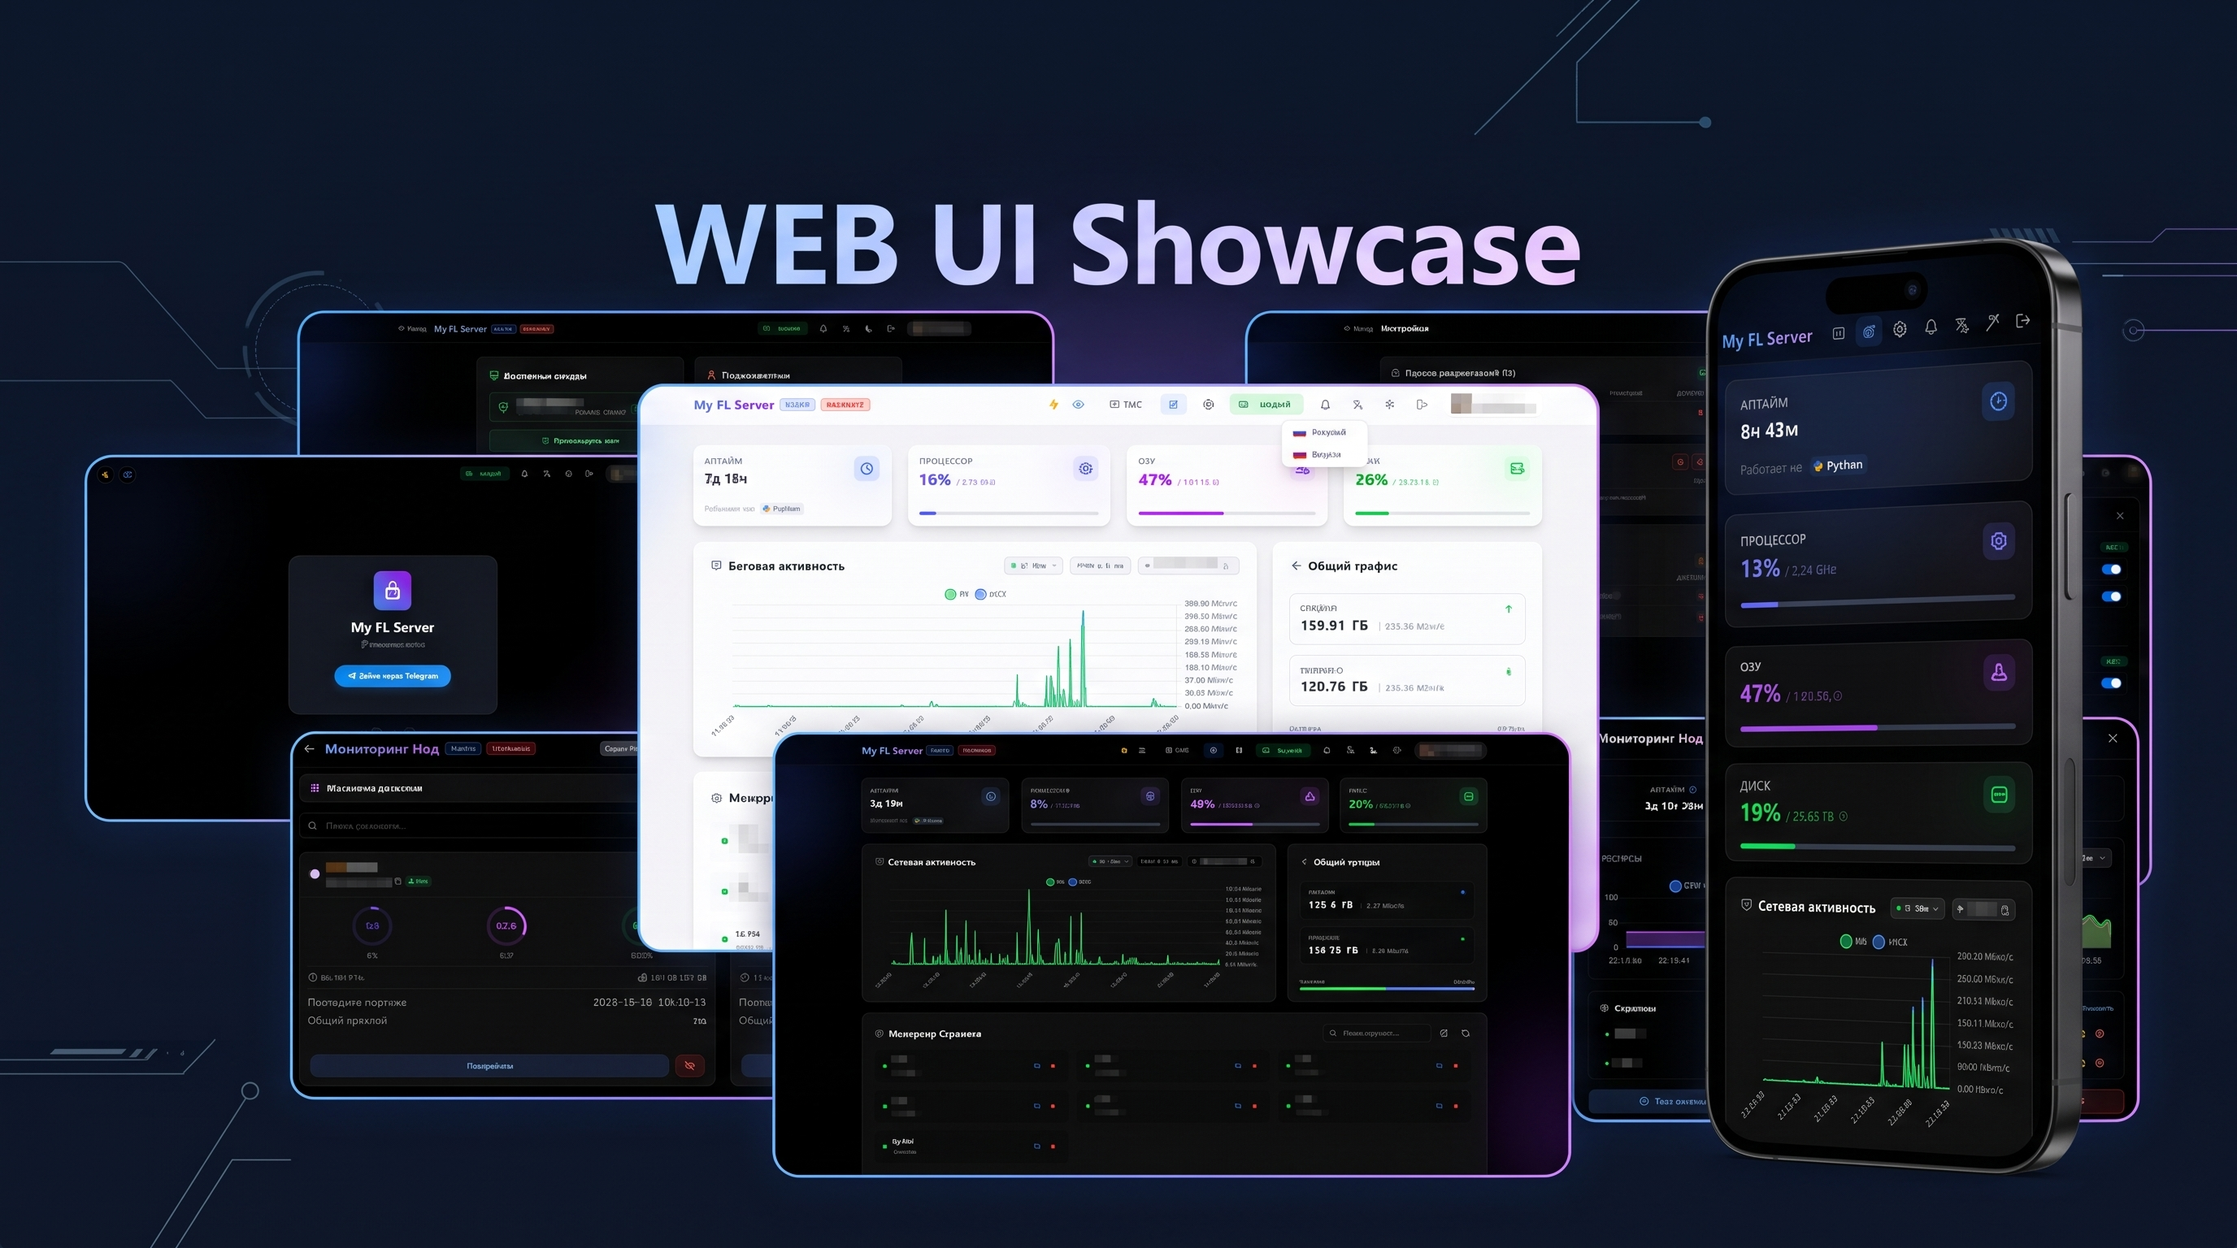
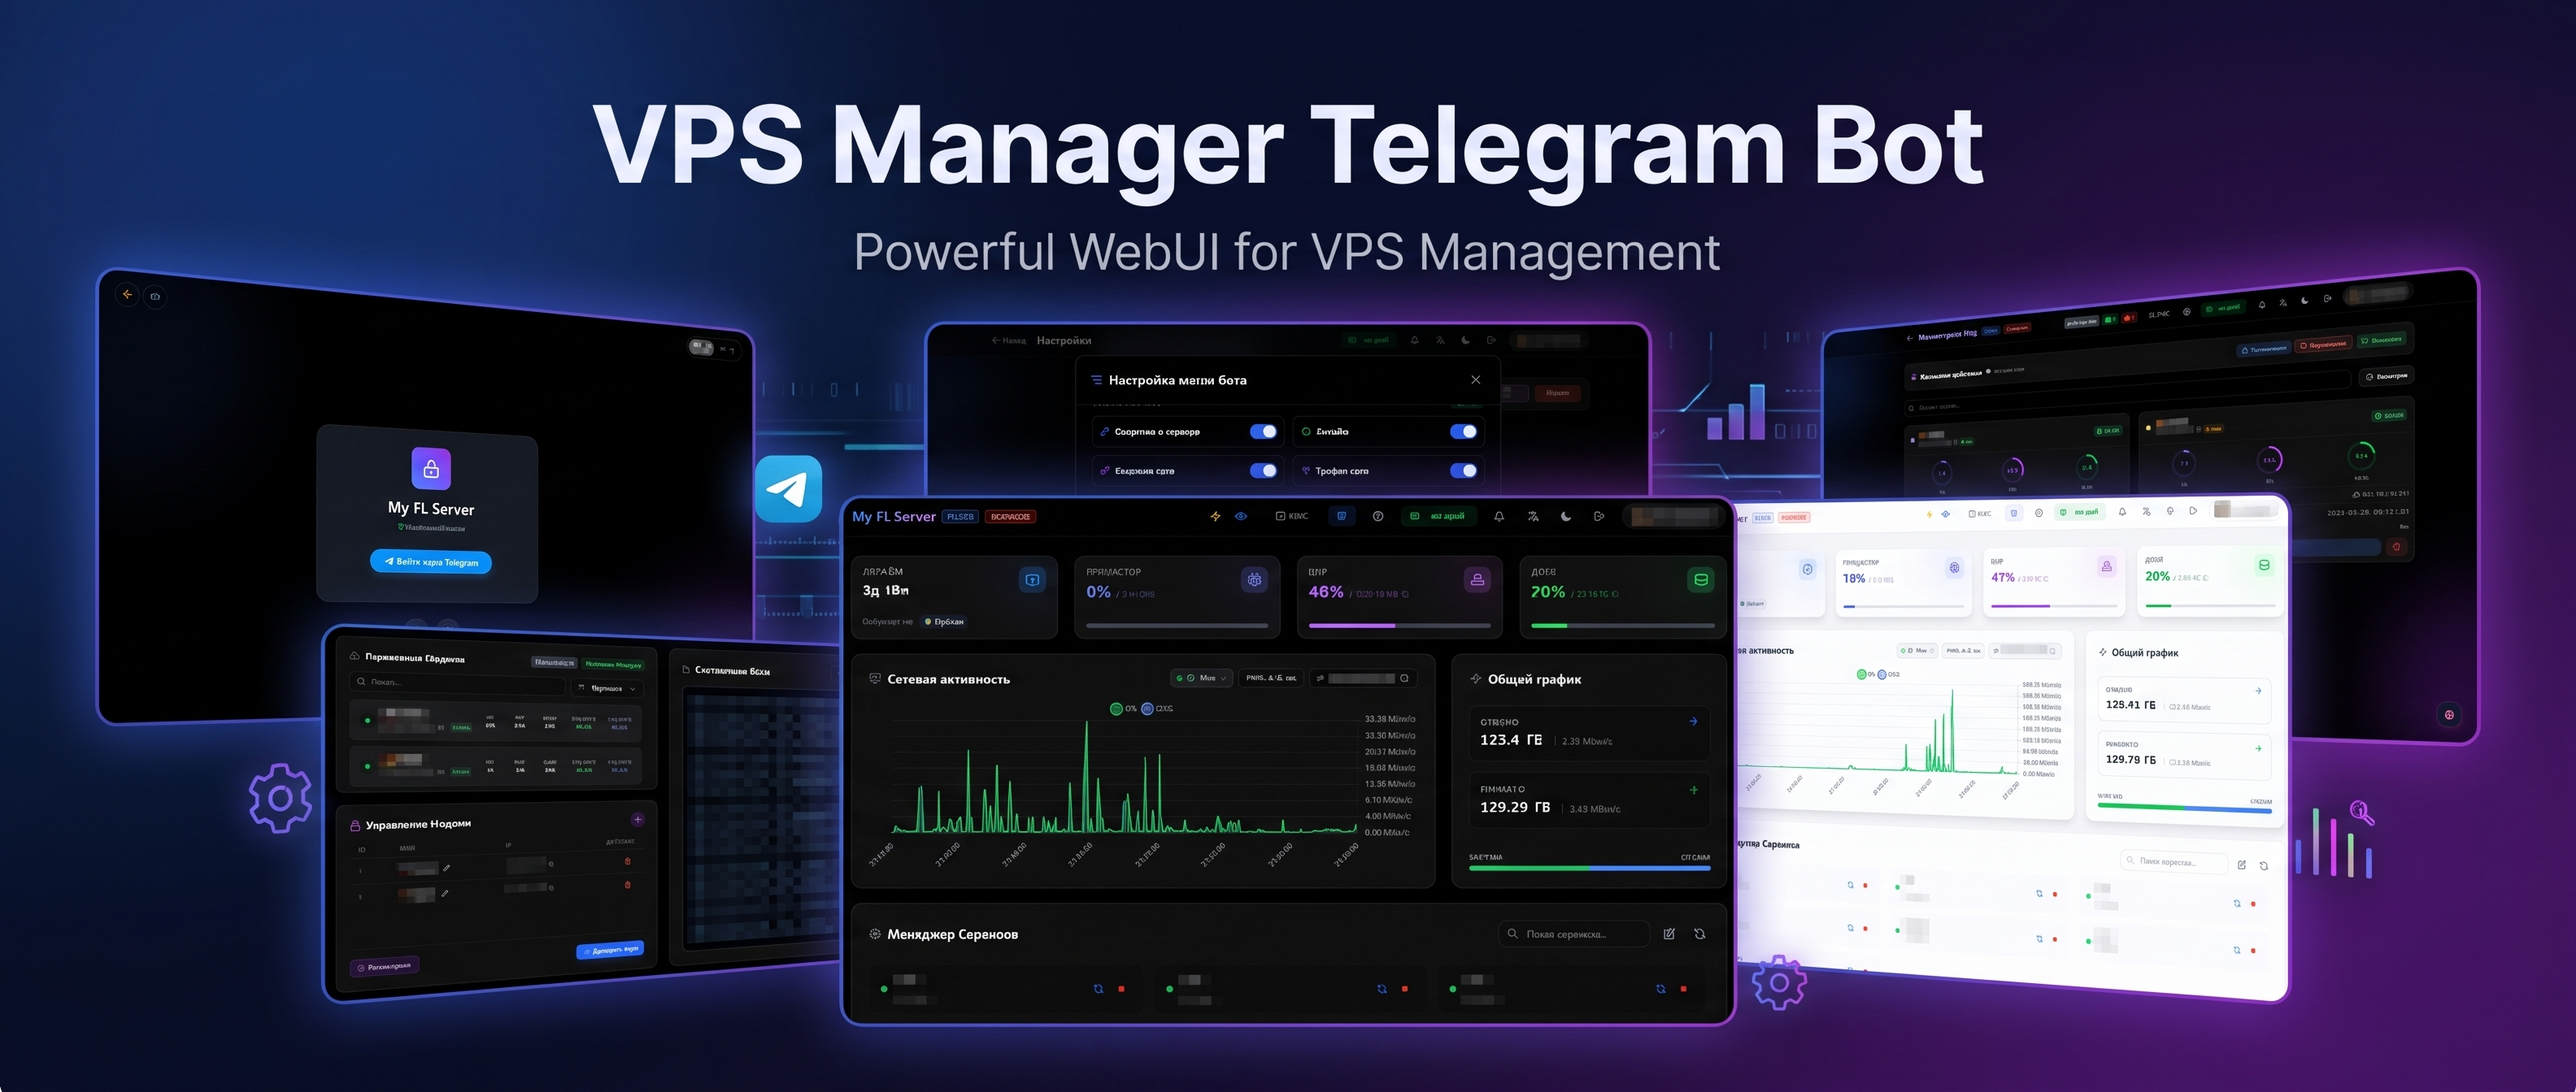
docs: add English documentation and update README with English translation overview

diff --git a/README.md b/README.md
@@ -17,6 +17,10 @@
   <a href="https://releases.ubuntu.com/focal/"><img src="https://img.shields.io/badge/platform-Ubuntu%2020.04%2B-important?style=flat-square" alt="Platform Ubuntu 20.04+"/></a>
 </p>
 
+<p align="center">
+  <img src="assets/asset_webUI.jpg" alt="VPS Manager Web UI & PWA Showcase" width="100%">
+</p>
+
 ---
 
 ## 📋 Оглавление

diff --git a/docs/README.en.md b/docs/README.en.md
@@ -17,6 +17,10 @@
   <a href="https://releases.ubuntu.com/focal/"><img src="https://img.shields.io/badge/platform-Ubuntu%2020.04%2B-important?style=flat-square" alt="Platform Ubuntu 20.04+"/></a>
 </p>
 
+<p align="center">
+  <img src="../assets/asset_webUI.jpg" alt="VPS Manager Web UI & PWA Showcase" width="100%">
+</p>
+
 ---
 
 ## 📋 Table of Contents
